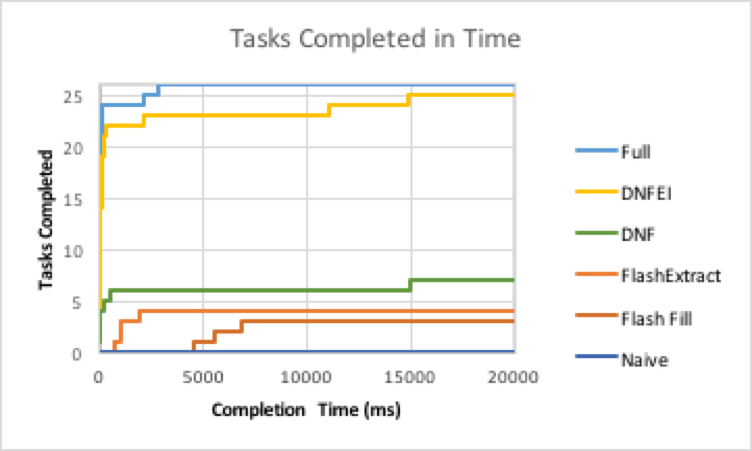
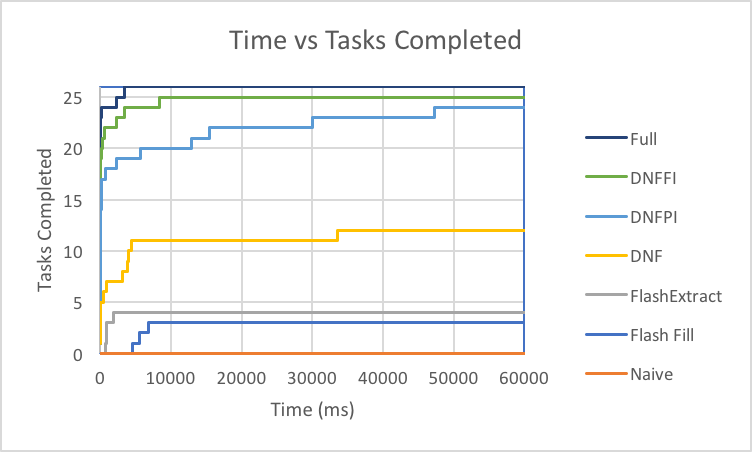
added in revamped eval

Changed region(s): [[0.0306, 0.1863, 0.734, 0.9313], [0.7646, 0.2794, 0.9787, 0.8381], [0.3059, 0.0621, 0.7035, 0.1242]]

diff --git a/paper/main.tex b/paper/main.tex
@@ -2430,17 +2430,12 @@ users can input synthesis tasks in place of lenses.
 \end{figure}
 
 
-\begin{figure}
-  \includegraphics[width=\columnwidth]{SynthesisTimes}
-  \label{fig:optimization-impact}
-  \vspace*{-.6cm}
-  \caption{Impact of optimizations and comparison against other tools.}
-\end{figure}
-
-We evaluated our synthesis algorithm by applying it to 25
-benchmark programs derived from practice.  We investigated (TODO: Fill in).
+We evaluated our synthesis algorithm by applying it to 26
+benchmark programs derived from practice.  We investigate our benchmark suite,
+the impact of our optimizations, how many examples are required, and a
+comparison against other tools.
 The tests were run on a 2.5 GHz Intel Core i7 processor with 16 GB of 1600 MHz DDR3
-running Mac OS X Yosemite.
+running macOS Sierra.
 
 \paragraph*{Benchmark Suite Construction}
 We constructed our benchmarks by adapting examples from
@@ -2450,16 +2445,15 @@ examples to test various
 features of the algorithm.
 Specifically, we derived 17 of the benchmark tests by
 adapting all of the lenses from the Augeas distribution that started
-with the letter `A' as well as the lenses
+with the letters `A', `B', and `C' as well as the lenses
 \CF{aug/xml-firstlevel} and \CF{aug/xml} that were referenced
 by the `A' lenses.  We derived 3 benchmarks from examples in the
 FlashFill paper~\cite{gulwani-popl-2014} that were close to bijections.
 We wrote 5 custom examples to test various features of the
-algorithm.
-In Figure~\ref{fig:evaluation-data}, examples derived from Augeas are
-prefixed with ``\CF{aug}'', those from FlashFill with
-``\CF{ff}'', and those 
-written by hand by ``\CF{cust}.''
+algorithm. Furthermore, the synthesis problems derived
+from Augeas with the letters `B' and `C' were tested after our synthesis
+algorithm was finalized, demonstrating that our optimizations are not build
+purely for the testing data.
 
 Augeas is a configuration editing system for linux that uses lens
 combinators similar to those in Boomerang. However, it transforms
@@ -2488,62 +2482,106 @@ particularly useful (\CF{date-probs}, \CF{bib-prob},
 and \CF{addr-probs}).   These examples convert between date
 formats, bibliography formats, and address formats, respectively.
 
+\begin{figure}
+  \includegraphics{SizeVsTime}
+  \caption{Relation between lens size and synthesis time}
+  \label{fig:size-vs-time}
+\end{figure}
 
-We consider the size of a benchmark program to be the total number of
-tokens in the source and target regular expressions.  
-For example, a \BaseRegexType{} regular expression counts as one
-while the concatenation of regular expressions $R_1$ and $R_2$ counts
-as one plus the sizes of $R_1$ and $R_2$.
-This size gives an approximate metric for how complex the data formats are.
+Our examples were fairly complex.  Figure~\ref{fig:size-vs-time} shows the sizes
+of our generated lenses, as well as the amount of time that it takes to generate
+those lenses.  We generate lenses of sizes between 5 AST nodes, for simple
+problems like changing how dates are represented, and 211 AST nodes, for complex
+tasks like transforming XML to a dictionary representation.  Furthermore, we
+scale as expected, with more complex tasks taking longer.
 
+%add back in if we have space
+%\paragraph*{Correctness}
+%To assess the correctness of the inferred lenses, we inspected each to
+%determine if the generated lens matched our understanding of the given
+%benchmark.  For all but \CF{cust/addr-probs}, the inferred lens was correct.
+%For \CF{cust/addr-probs}, the inferred lens had the correct type and performed
+%correctly on all supplied examples, but would have been incorrect on
+%other examples.  When we refined one of the given examples to
+%highlight the previously unseen case and re-ran the algorithm, it
+%produced the correct lens. As further validation, we confirmed that the
+%synthesized lenses performed correctly on the supplied examples and on
+%additional examples not made available to the synthesis algorithm,
+%having held back approximately half of our example data for validation.
 
-% KSF: This material seems to fit into a description of the algorithm,
-% not the evaluation section. Furthermore, in larger synthesis
-% problems, we build intermediary lenses between intermediary regular
-% expressions as a sanity check for bijectivity.  These intermediary
-% lenses are then used in the synthesis algorithm for mapping the
-% intermediary sub-expressions, to avoid repeating the same synthesis
-% algorithm. 
+\begin{figure}
+  \includegraphics{SynthesisTimes}
+  \caption{Impact of optimizations and comparison against other tools.}
+  \label{fig:synthesis-times}
+\end{figure}
 
-\paragraph*{Correctness}
-To assess the correctness of the inferred lenses, we inspected each to
-determine if the generated lens matched our understanding of the given
-benchmark.  For all but \CF{cust/addr-probs}, the inferred lens was correct.
-For \CF{cust/addr-probs}, the inferred lens had the correct type and performed
-correctly on all supplied examples, but would have been incorrect on
-other examples.  When we refined one of the given examples to
-highlight the previously unseen case and re-ran the algorithm, it
-produced the correct lens. As further validation, we confirmed that the
-synthesized lenses performed correctly on the supplied examples and on
-additional examples not made available to the synthesis algorithm,
-having held back approximately half of our example data for validation.
+\paragraph*{Impact of Optimizations}
 
+% If we take this problem to the logical extremes, we see that the the triple
+% capitalization problem takes 6.974 seconds, and the quadruple capitalization
+% problem takes 33 minutes and 54.730 seconds.
 
-\paragraph*{Speed of Synthesis}
+%If a bijection that satisfies the examples does not exist
+%between the source and target regular expressions, our tool rarely
+%terminates.  Instead, it performs increasingly complicated regular
+%expression transformations to try to find a bijective lens.  In
+%practice, if the system takes more than 10 seconds, we abort and
+%revise the regular expressions to have a bijective lens between them.
 %
-Figure~\ref{fig:evaluation-data} provides the runtime of our algorithm on our
-benchmark suite. The column \textbf{Time} shows the runtime of the
-synthesis algorithm in microseconds; smaller numbers are better.
-Across all examples, the average synthesis time is 283 milliseconds;
-the slowest example (\CF{aug/xml}) completes in just under four 
-seconds. 
-The results show that the synthesis time is not strongly correlated
-to the complexity of the source and target regular expressions.  Other
-factors, such as the degree to which the source and target regular
-expressions vary, have a large impact.
+Figure~\ref{fig:synthesis-times} shows the runtimes of various algorithms on our
+test suite.
+Our algorithm took a number of optimizations to become tractable.
 
-The example \CF{aug/xml} takes as long as it does primarily
-because of the number of expansions required to find the lens.
-Specifically, it requires twelve expansions
-in contrast to the other
-benchmarks, each of which requires fewer than five.  Combined with the
-complexity of the regular expressions that describe the source and
-target data formats, 311 total tokens, finding the correct expansions is quite
-difficult.\footnote{Since xml syntax is regular,
+Conversion to DNF form was a very important optimization we performed.  Trying
+naive type-directed synthesis on these languages doesn't work at all, none of
+the examples, even the very simple ones, are able to be synthesized within the 2
+minute timeframe.
+
+\begin{figure}
+  \includegraphics{InferencesDone}
+  \caption{Impact of optimizations and comparison against other tools.}
+  \label{fig:inferences-done}
+\end{figure}
+
+Conversion to DNF form helped significantly, but still left many problems
+intractible.  In particular, with no inference of expansions, only the lenses
+which required few expansions were tractible.  Because of the large fan-out
+caused the search space, only \afm{12} could be solved simply with DNF
+conversion, the rest required additional optimizations.
+
+Inferring expansions gives the fanout less of an impact.  Inferring the forced
+expansions alone makes almost all the synthesis tasks tractable.  This is
+because inferring forced expansions, in many cases, infers \emph{all} the
+expansions.  In \afm{15} of the \afm{26} examples, all expansions were forced.
+This allows most of the examples to be tractable, but rather slow.  This is able
+to be sped up by directing the search using more than just blind breadth-first
+search, when more information can be used to direct it.
+
+Our final optimization is the use of lenses in the context.  Through using
+lenses, present in the context, the synthesis algorithm is not solely
+responsible for all transformations that must occur, but instead can rely on
+existing lenses either written by the user, or previously synthesized.
+
+In our full synthesis algorithm, two examples take longer than the others to
+infer:  \CF{aug/xml} and \CF{cust/2-cap-prob}.
+
+The example \CF{aug/xml} was slowest because it was both a large data format,
+a large number of expansions were required, and not all expansions were
+inferred.  While a fairly large number of expansions were forced (15),
+there were 3 expansions that were inferred, but not forced, and 1 expansion that
+had to be found through random search.  This is not always a problem, however,
+as there were other formats that required even more search, both random search
+and directed search.  What differentiated \CF{aug/xml} was that it also was a
+very large data format: it had the \afm{second} largest lens and the
+\afm{seventh} largest specification.  The amount of random search it required
+had a larger impact because, with an increased specification size, there is also
+an increase in the fanout, with additional iterations that can be unfolded, and
+additional user defined data types that can be replaced by their definitions.
+This large fanout, alongside the depth that needed to be searched through, made
+the search very difficult, requiring \afm{164} types to be proposed before the
+correct one was found.\footnote{Since xml syntax is regular,
   the source and target regular expressions describe only xml
   expressions up to depth 3.}
-Even using our metric, the algorithm must consider over 400 expansions
-to find the correct twelve expansions.
 
 We constructed the example \CF{cust/2-cap-prob} to
 highlight the exponential blow-up that arises in expanding
@@ -2564,29 +2602,24 @@ defining a user-defined datatype and an associated lens (perhaps via
 synthesis!) to manage the capitalization conversion, users can avoid
 the combinatorial explosion in the search space.
 
-% If we take this problem to the logical extremes, we see that the the triple
-% capitalization problem takes 6.974 seconds, and the quadruple capitalization
-% problem takes 33 minutes and 54.730 seconds.
-
-If a bijection that satisfies the examples does not exist
-between the source and target regular expressions, our tool rarely
-terminates.  Instead, it performs increasingly complicated regular
-expression transformations to try to find a bijective lens.  In
-practice, if the system takes more than 10 seconds, we abort and
-revise the regular expressions to have a bijective lens between them.
-
 \paragraph*{Importance of Examples}
+
+\begin{figure}
+  \includegraphics{ExsReqd}
+  \caption{Impact of optimizations and comparison against other tools.}
+  \label{fig:exs-reqd}
+\end{figure}
+
 To evaluate how many user-supplied examples the algorithm requires in
 practice, we \textit{randomly} generated appropriate source/target
 pairs, mimicking what a naive user might do.  We did not write the
 examples by hand out of concern that our knowledge of the synthesis
-algorithm might bias the selection.  In
-Figure~\ref{fig:evaluation-data}, the column \textbf{Avg \# Exmpl} shows
+algorithm might bias the selection. Figure~\ref{fig:exs-reqd}, shows
 the number of randomly generated examples it takes to synthesize the
-correct lens averaged over ten runs.  Across all examples, the average
-number of required examples is 0.98. The mode is zero, and the
-maximum is 21.5.  A clever user may be able to reduce the
-number of required examples by selecting examples carefully.
+correct lens averaged over ten runs.  The synthesis algorithm almost never needs
+any examples: only 3 benchmarks need a nonzero number synthesize the correct
+lens. A clever user may be able to reduce the
+number of required examples even further by selecting examples carefully.
 
 These numbers are low because there are relatively few well-typed
 bijective lenses between any two source and target regular expressions. 
@@ -2596,23 +2629,23 @@ For example, the benchmark \CF{aug/addr-probs} requires examples because it
 must differentiate between and first and last names in both the
 source and target and map between them appropriately.
 
-As the \CF{cust/bib-prob} example illustrates, the average number of examples to
+\begin{figure}
+  \includegraphics{AllPaths}
+  \caption{Impact of optimizations and comparison against other tools.}
+  \label{fig:all-paths}
+\end{figure}
+
+The average number of examples to
 infer the correct lens does not tell the whole story.  The system will
 stop as soon as it finds a correctly typed lens that correctly maps
 all the supplied examples.  This inferred lens may or may not
 correctly handle unseen examples that correspond to
 unexercised portions of the source and target regular expressions.
-Column \textbf{Max \# Exmpl} in Figure~\ref{fig:evaluation-data} lists
+Figure~\ref{fig:all-paths} lists
 the number of examples that are required to exercise all choice
 points.  Intuitively, this number represents the maximum number of
 examples that a user must supply to guide the synthesis engine if it
 always guesses the wrong mapping when multiple mappings are possible.
-Note these examples must be carefully selected to exercise all
-choices; a very large number of examples that all follow the same
-pattern are no more helpful than a single such example.  We see an
-example of this phenomenon in the example \CF{ff/extract-fname}, where the
-average number of examples is greater than the Max number of examples
-because the system randomly generated redundant examples.
 
 The average number of examples is so much lower than the maximum
 number of required examples because of correspondances in how we wrote
@@ -2625,6 +2658,32 @@ to facilitate synthesis, but rather because maintaining similar
 subparts in similar orderings makes the types much easier to 
 read. We expect that most users would do the same.
 
+\paragraph*{Comparison Against Other Tools}
+%
+Figure~\ref{fig:synthesis-times} includes a comparison against two other tools
+for text transformation and extraction -- Flash Fill and FlashExtract.  For this
+evaluation, we used the version of these tools distributed through the
+PROSE project~\cite{prose}.
+
+To generate specifications for FlashFill, we generated input/output
+specifications through generating random elements of the source language, and
+running the lens on those elements to generate elements of the target language.
+These were then fed to FlashFill.
+
+To generate specifications for FlashExtract, we extracted portions of strings
+which were mapped, in the generated lens, either through an identity
+transformation, or through a lens in the context, whereas strings which were
+mapped through use of \ConstLens{}, were considered boilerplate, and so not
+extracted.
+
+As these tools were designed for a broader audience, they put less of a burden
+on the user.  These tools only require the use of IO examples (for Flash
+Fill), or marked text regions (for FlashExtract), as opposed to requiring the
+input of pairs of regular expressions.  However, by requiring this additional
+work by the user, \SynthLens{} is able to synthesize significantly more programs
+than either tool.  Unlike these two tools, which must spend a great deal of
+effort figuring out the appearance of the data, SynthLens{} avoids
+this problem by having the user input the data formats.
 
 %% \paragraph*{Impact of Incompleteness}
 
@@ -2693,20 +2752,13 @@ write regular expression specifications
 and it requires some work.
 On the other hand, such specifications provide a great deal of information
 to the synthesis system, which decreases the number of examples needed
-(sometimes to zero), makes the system scale well, and
-allows it to handle large, complex formats.  
-For instance, FlashFill~\cite{gulwani-popl-2014}, 
-one of the most prominent
-recent string transformation systems, does not handle formats
-with nested iteration, whereas our system is able to handle
-such formats with relative ease.  Another well-known system,
-FlashExtract~\cite{le-pldi-2014} does not support general unions.
-We tried applying FlashExtract to the problem
-of extracting author names from BibTeX examples where various fields
-appeared in different orders in different examples.  Even when we
-gave FlashExtract 30 examples, it was unable to correctly
-extract the desired fields.  By contrast, our system succeeds with no examples
-because all the necessary information is encoded in the format specifications.
+(usually to zero), makes the system scale well, and
+allows it to handle large, complex formats, as shown in \S \ref{evaluation}.
+Furthermore, because our language is one of \emph{bidirectional}
+transformations, we are not merely transforming or extracting data, but writing
+two-way convertersions between the formats.  Of course, because we are writing
+bidirectional languages, we are less expressive in some of the functions
+we can express, as we require the synthesized functions to be bijective.
 
 There are many other recent results showing how to synthesize functions from
 type-based specifications~\cite{augustsson-2004,gvero-pldi-2013,tds-pldi,feser-pldi-2015,scherer-icfp-2015,frankle+:popl16,armando+:pldi16}.  While we were inspired by this work,
